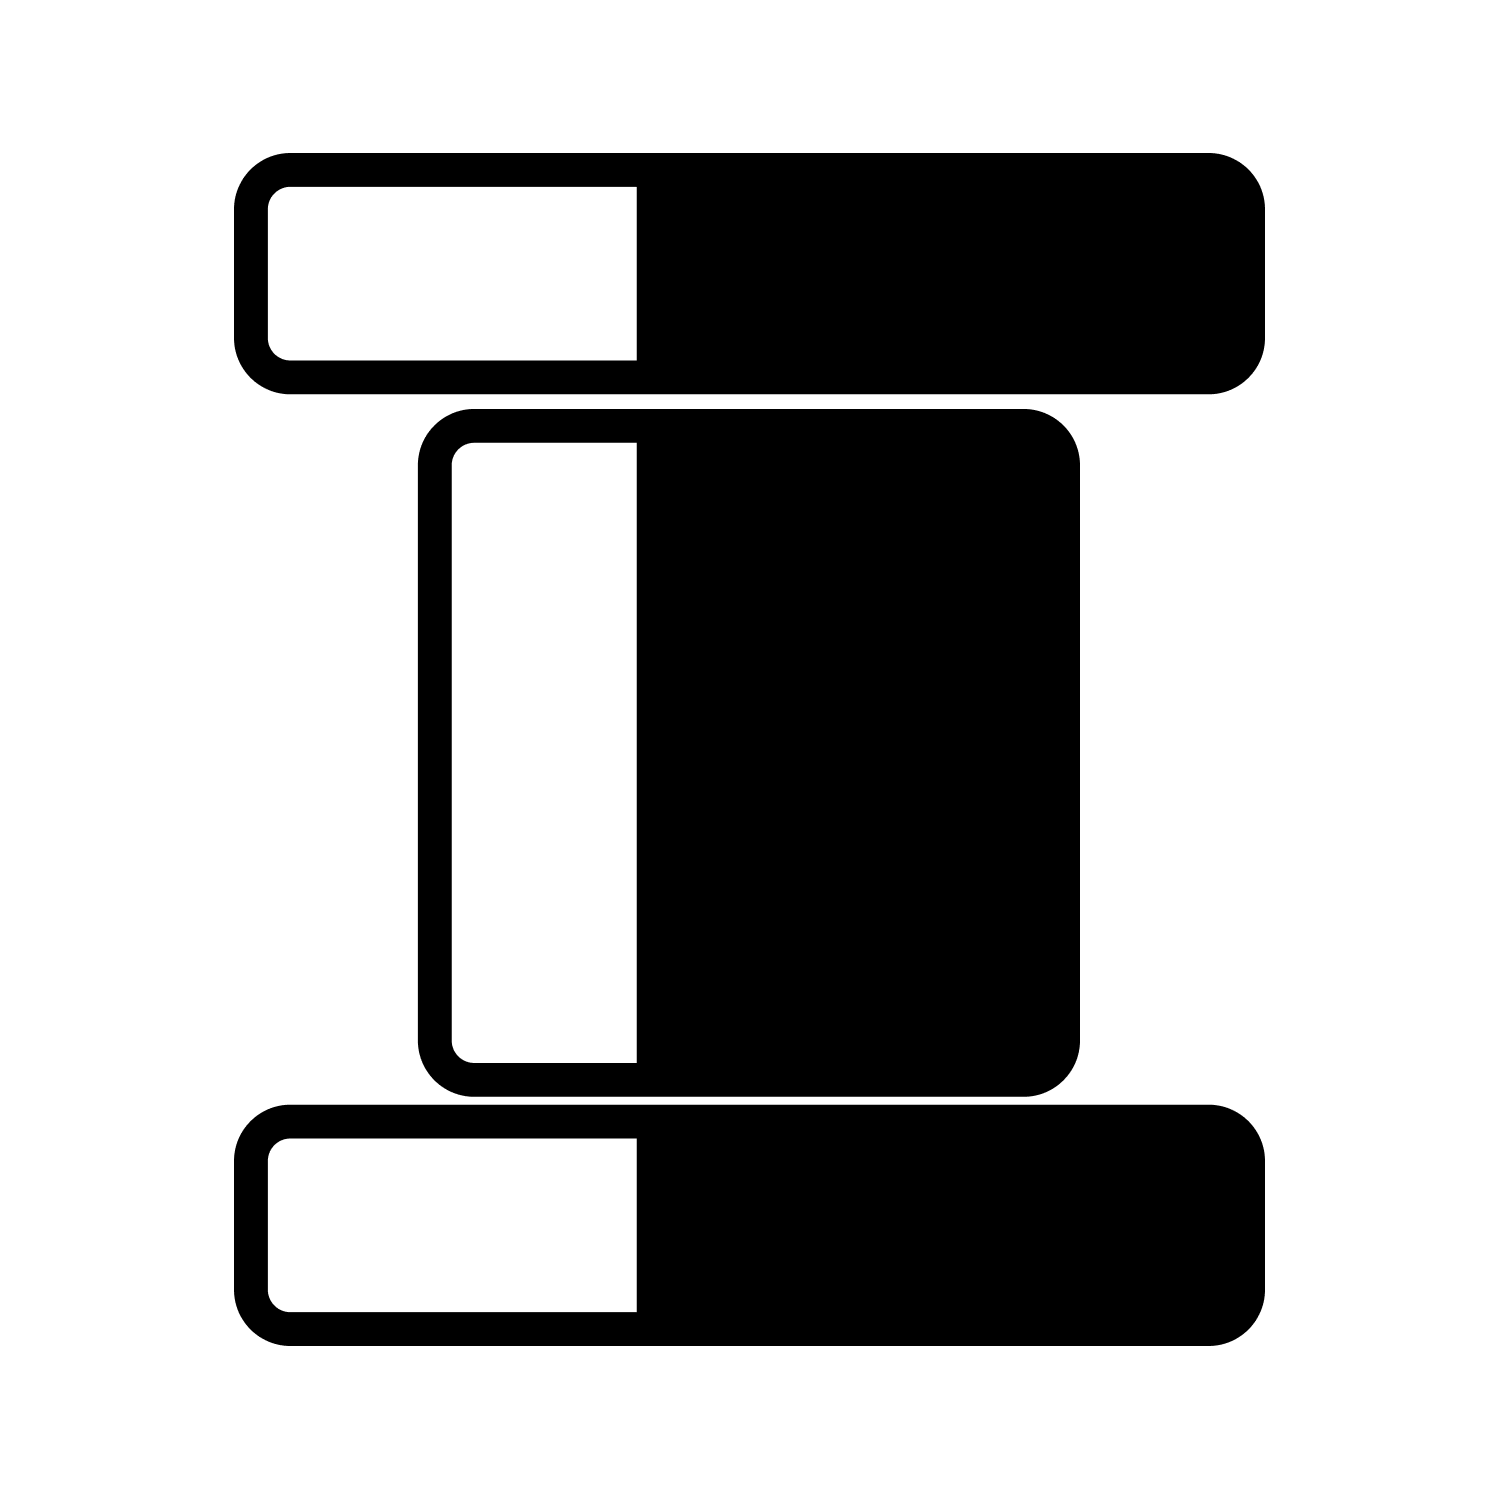
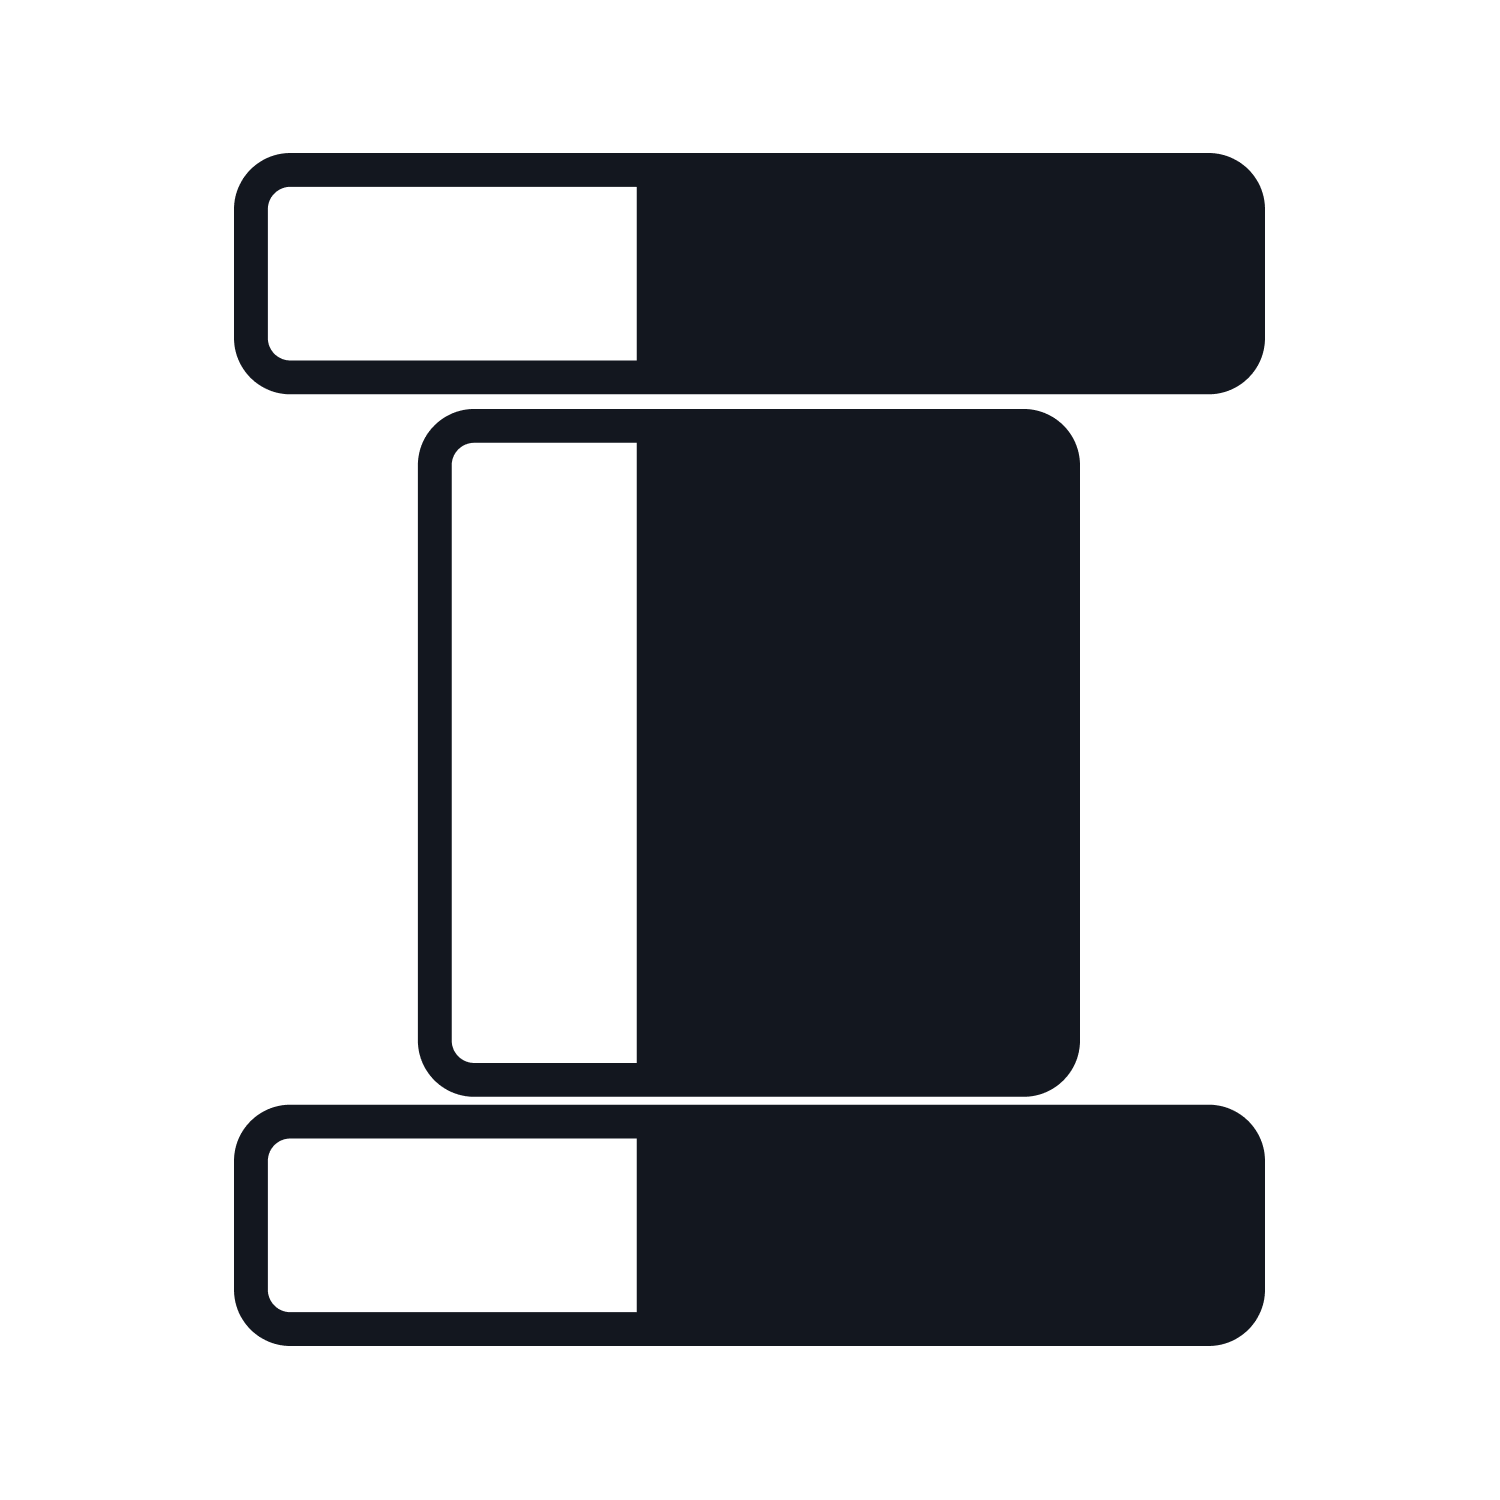
Design clean-up

diff --git a/css/style.css b/css/style.css
@@ -43,10 +43,10 @@
     --bs-link-hover-color: #70e17b;
     --bs-link-hover-color-rgb: 112, 225, 123;
     --bs-highlight-bg: #70e17b;
-    --bs-highlight-color: #000;
+    --bs-highlight-color: #13171f;
     --bs-btn-bg: #70e17b !important;
     --bs-btn-border-color: #70e17b;
-    --bs-btn-color: #000;
+    --bs-btn-color: #13171f;
     --bs-btn-hover-bg: #70e17b;
     --bs-btn-hover-border-color: #70e17b;
     --bs-btn-hover-color: #000;
@@ -137,8 +137,7 @@ a:hover {
     color: var(--bs-link-hover-color);
 }
 
-/* Style external links except those from scangov.org and scangov.com */
-a[href^="http"]:not([href^="https://scangov.org"]):not([href^="https://scangov.com"])::after {
+a[href^="http"]:not([href^="https://scangov.org"]):not([href^="https://scangov.com"]):not([href^="https://docs.scangov.org"])::after {
     content: "\f35d";
     /* Font Awesome Unicode for 'arrow-up-right-from-square' */
     font-family: "Font Awesome 5 Free";
@@ -163,6 +162,19 @@ a[href^="http"]:not([href^="https://scangov.org"]):not([href^="https://scangov.c
     color: #fff !important;
 }
 
+a.nav-link:hover, .nav-link:hover svg {
+    color: #70e17b !important;
+}
+
+a.list-group-item:hover {
+    background-color: #0f1218 !important;
+    color: #fff !important;
+}
+
+.border-end {
+    box-shadow: 0.5rem 0 0.5rem #0f1218;
+}
+
 /* Cards */
 
 .card {
@@ -181,10 +193,10 @@ a.card:hover {
 }
 
 .card:hover {
+    background-color: #0f1218 !important;
     box-shadow: 0 0.25rem 0.5rem #252f3e;
     /* Add shadow on hover */
-    transform: translateY(-2px);
-    transition: all 0.3s ease;
+    transition: all 0.5s ease-in-out;
     /* Smooth transition */
 }
 
@@ -199,7 +211,7 @@ a.card:hover {
     box-shadow: var(--bs-card-shadow);
     cursor: pointer;
     font-family: var(--bs-font-bold);
-    padding: .75rem;
+    padding: .55rem;
     position: fixed;
     bottom: 2rem;
     right: 2rem;
@@ -208,11 +220,20 @@ a.card:hover {
     transition: opacity 0.5s ease-in-out;
 }
 
+.feedback svg {
+    transition: opacity 0.5s ease-in-out;
+}
+
 .feedback:hover {
     background-color: var(--bs-body-bg);
     box-shadow: var(--bs-card-shadow);
     color: var(--bs-body-color);
     box-shadow: 0 0.25rem 0.5rem #252f3e;
+    transition: all 0.5s ease;
+}
+
+.feedback:hover svg {
+    color: var(--bs-body-color) !important;
     transition: all 0.5s ease;
 }
 
@@ -231,10 +252,7 @@ main#home img {
     margin-bottom: 0.5rem;
 }
 
-svg {
-    color: var(--bs-body-color) !important;
-    fill: var(--bs-body-color);
-}
+
 
 svg.fa-circle-check {
     fill: var(--bs-success);

diff --git a/_includes/jumbotron.html b/_includes/jumbotron.html
@@ -67,8 +67,8 @@
     <div class="pt-5 pb-4 mb-5 border-bottom">
       <div class="container">
         <div class="row">
-          <div class="col-12 col-sm-12 col-md-2 col-lg-2 col-xl-2"></div>
-          <div class="col-12 col-sm-12 col-md-8 col-lg-8 col-xl-8">
+          <div class="col-12 col-sm-12 col-md-1 col-lg-1 col-xl-1"></div>
+          <div class="col-12 col-sm-12 col-md-10 col-lg-10 col-xl-10">
             {% if page.title %}
               <h1 class="display-5">{{ page.title }}</h1>
             {% endif %}
@@ -77,7 +77,7 @@
             {% endif %}
           </div>
         </div>
-        <div class="col-12 col-sm-12 col-md-2 col-lg-2 col-xl-2"></div>
+        <div class="col-12 col-sm-12 col-md-1 col-lg-1 col-xl-1"></div>
       </div>
     </div>
   {% elsif page.layout == "docs" %}

diff --git a/css/plyr.css b/css/plyr.css
@@ -209,8 +209,7 @@ a.plyr__control {
     display: flex;
     justify-content: flex-end;
     text-align: center;
-    border: 1px solid var(--bs-body-color) !important;
-    filter: drop-shadow(-5px 5px 0 var(--bs-gray));
+    border: 1px solid var(--bs-border-color) !important;
 }
 
 .plyr__controls .plyr__progress__container {
@@ -449,7 +448,7 @@ a.plyr__control {
 }
 
 .plyr__menu__container .plyr__control[role=menuitemradio].plyr__tab-focus:before, .plyr__menu__container .plyr__control[role=menuitemradio]:hover:before {
-    background: var(--bs-body-bg);
+    background: var(--bs-body-bg)
 }
 
 .plyr__control[role=menuitemradio]:hover:before {

diff --git a/_layouts/cards.html b/_layouts/cards.html
@@ -22,7 +22,7 @@ layout: cards
                     </a>
                   </h2>
                 </div>
-                <div class="card-footer text-muted">
+                <div class="card-footer text-muted small">
                   {{ item.source }}
                 </div>
               </div>
@@ -38,7 +38,7 @@ layout: cards
                   </h2>
                   <p class="card-text">{{ item.description }}</p>
                 </div>
-                <div class="card-footer text-muted">
+                <div class="card-footer text-muted small">
                   {% include date.html %}
                 </div>
               </div>

diff --git a/_includes/toc.html b/_includes/toc.html
@@ -8,10 +8,11 @@
           {% assign id = chapter | split: 'id="' %}
           {% assign id = id[1] | split: '"' %}
           {% assign id = id[0] %}
+          {% assign level = chapter | slice: 0, 1 %}
           {% assign title = chapter | split: '>' %}
           {% assign title = title[1] | split: '</h' %}
           {% assign title = title[0] %}
-          <li class="mb-1 small">
+          <li class="mb-2 small {% if level == '3' %}ms-3{% endif %}">
             <a href="#{{ id }}">{{ title }}</a>
           </li>
         {% endif %}

diff --git a/_includes/footer.html b/_includes/footer.html
@@ -22,11 +22,12 @@
   </footer>
 </div>
 <a
-  href="feedback.html"
+  href="/feedback"
   id="feedback-button"
   aria-label="Feedback"
   class="feedback"
   style="">
+  <i class="fa-regular fa-lightbulb"></i>
   Feedback
 </a>
 

diff --git a/_pages/stld.md b/_pages/stld.md
@@ -6,6 +6,10 @@ icon: "fa-solid fa-landmark-dome"
 keywords: url, stld
 ---
 
+## Guidance
+
+All government websites must have a `.gov` / `.edu` / `.mil` sTLD.
+
 ## About
 
 Generic top-level domains (gTLD) (`.com`, `.org`, etc.) are non-country extensions that indicate the purpose or source of the website.
@@ -13,10 +17,6 @@ Generic top-level domains (gTLD) (`.com`, `.org`, etc.) are non-country extensio
 Sponsored top-level domains (sTLD) (`.gov` / `.edu` / `.mil`) are a subgroup of gTLDs managed by designated organizations and restricted to specific registrant types.
 
 A `.gov` / `.edu` / `.mil` extension verifies that the website is managed by a United States government organization (federal, state, local). Government non-.gov gTLDs can potentially confuse users and create opportunities for non-government entities to spoof official government services. Adopting the `.gov` / `.edu` / `.mil` extension ensures users are visiting an official government website.
-
-## Guidance
-
-All government websites must have a `.gov` / `.edu` / `.mil` sTLD.
 
 ## Examples
 

diff --git a/_pages/sitemap.md b/_pages/sitemap.md
@@ -6,6 +6,10 @@ icon: "fa-solid fa-sitemap"
 keywords: sitemap, grades, scores
 ---
 
+## Guidance
+
+All government websites must have a sitemap.
+
 ## About
 
 A sitemap is a file that lists all of the pages on a website in addition to information about each so that search engines can more intelligently crawl the site.
@@ -17,10 +21,6 @@ The sitemap is an Extensible Markup Language (XML) file on the website’s root 
 * when it was last updated
 * how often it usually changes
 * how important it is, relative to other URLs in the site
-
-## Guidance
-
-All government websites must have a sitemap.
 
 ## Examples
 

diff --git a/_pages/x-content-type-options.md b/_pages/x-content-type-options.md
@@ -6,6 +6,10 @@ icon: "fa-solid fa-file-code"
 keywords: grades, scores
 ---
 
+## Guidance
+
+All government websites must have `X-Content-Type-Options` designated.
+
 ## About
 
 `X-Content-Type-Options` is a security header that:
@@ -13,10 +17,6 @@ keywords: grades, scores
 - Prevents browsers from MIME-sniffing.
 - Ensures content is rendered as declared (e.g., no misinterpretation of file types).
 - Stops browsers from guessing content types, enhancing security.
-
-## Guidance
-
-All government websites must have `X-Content-Type-Options` designated.
 
 ## Code
 

diff --git a/_pages/https-hsts.md b/_pages/https-hsts.md
@@ -39,8 +39,6 @@ Example government websites with HTTPS:
 Services](https://www.whitehouse.gov/wp-content/uploads/legacy_drupal_files/omb/memoranda/2015/m-15-13.pdf)
 
 ## HTTP Strict Transport Security (HSTS)
-
-### About
  
 ### Guidance
 
@@ -53,6 +51,8 @@ All government websites must have HSTS.
 [CIO.gov](https://https.cio.gov/hsts/):
 
 > The policy should be deployed at https://domain.gov, not https://www.domain.gov.
+
+### About
 
 HSTS is a security feature that:
 

diff --git a/_pages/robots.md b/_pages/robots.md
@@ -86,4 +86,4 @@ X-Robots-Tag: index, follow
 - [robotstxt.org](https://www.robotstxt.org)
 - [robots.txt](https://search.gov/indexing/robotstxt.html) (Search.gov)
 - [robots.txt](https://en.wikipedia.org/wiki/Robots.txt) (Wikipedia)
-- [Meta tag and HTTP response](https://developers.google.com/search/docs/crawling-indexing/robots-meta-tag) (Google)
+- [Robots Meta Tags Specifications](https://developers.google.com/search/docs/crawling-indexing/robots-meta-tag) (Google)

diff --git a/_pages/brand.md b/_pages/brand.md
@@ -13,12 +13,12 @@ keywords:
 
 ## Fonts
 
-- Logo ([JetBrains Mono](https://www.jetbrains.com/lp/mono/))
-- Content ([Noto Sans](https://fonts.google.com/noto/specimen/Noto+Sans))
+- Logo/content ([Public Sans](https://public-sans.digital.gov/))
+- Code ([JetBrains Mono](https://www.jetbrains.com/lp/mono/))
 
 ## Colors
 
-- Black: #000000
+- Black: #13171f
 - White: #ffffff
 - Green: #70e17b
 
